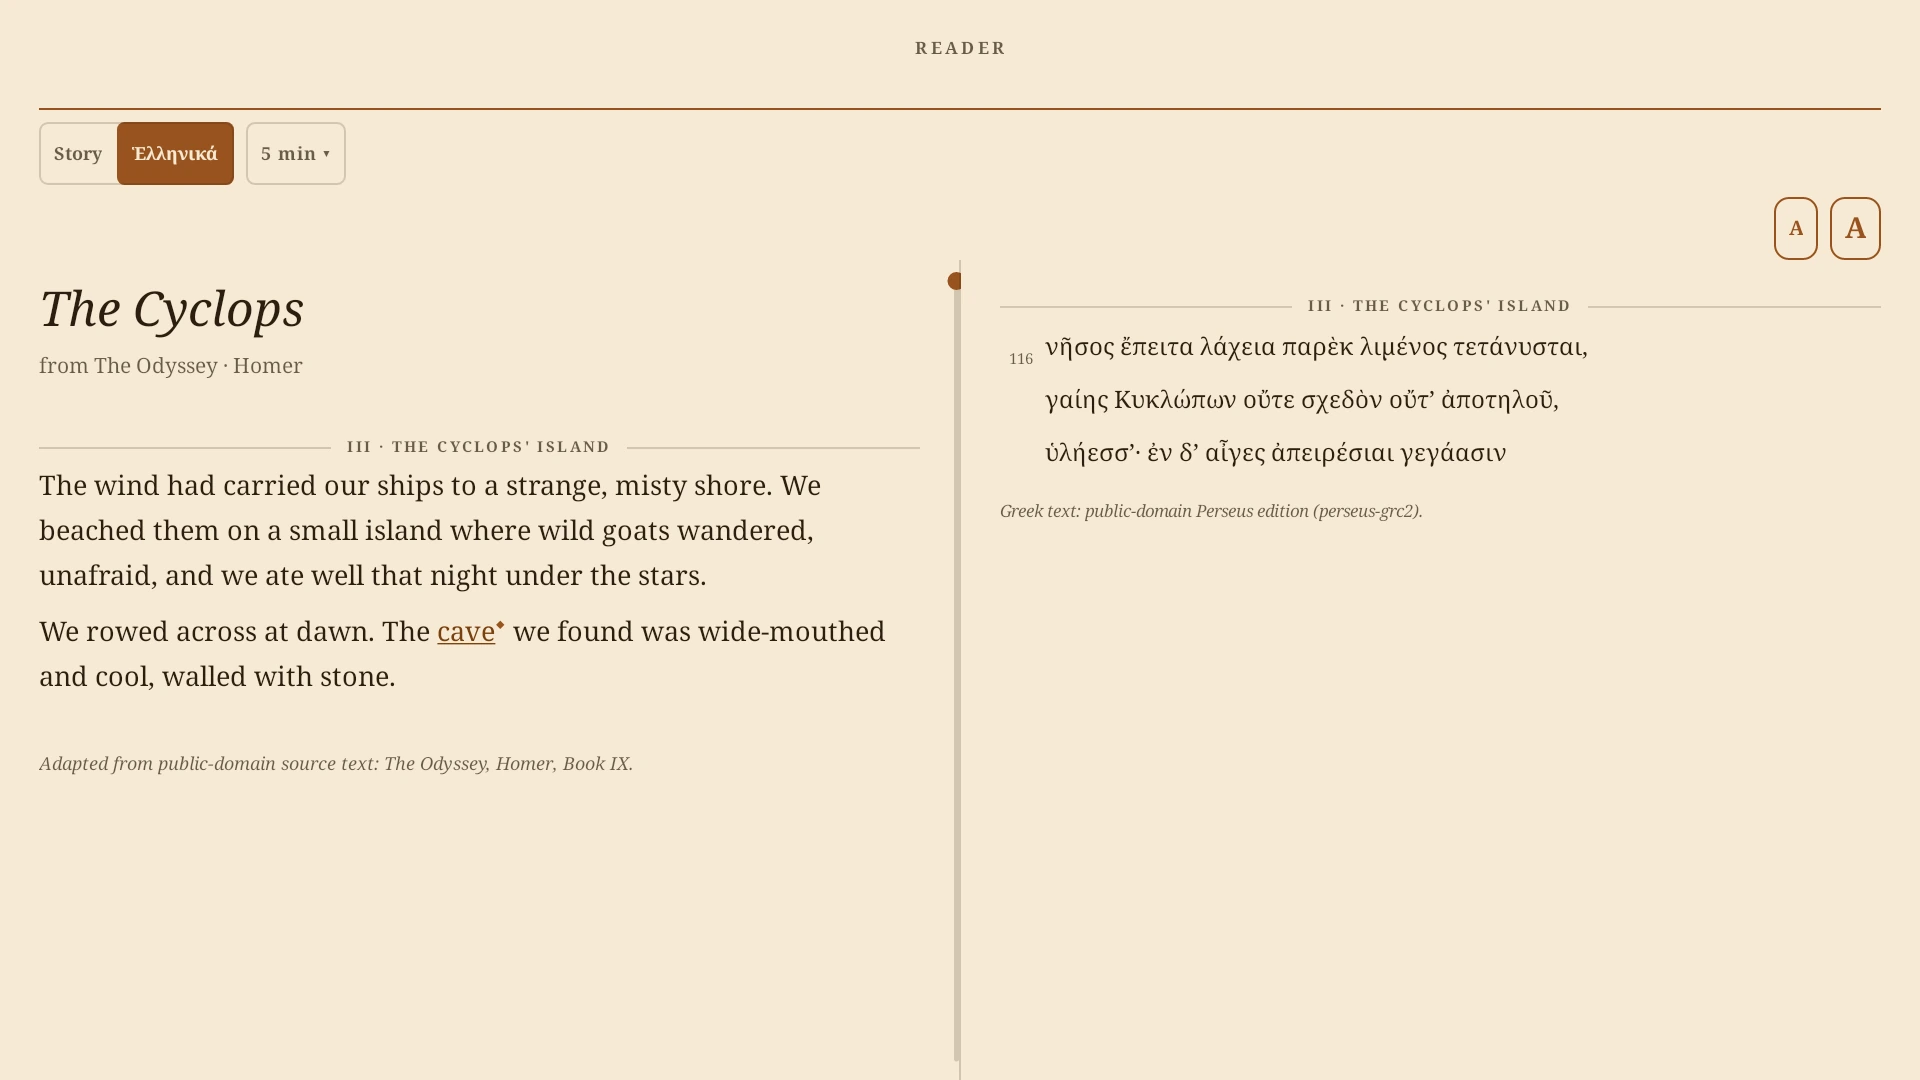
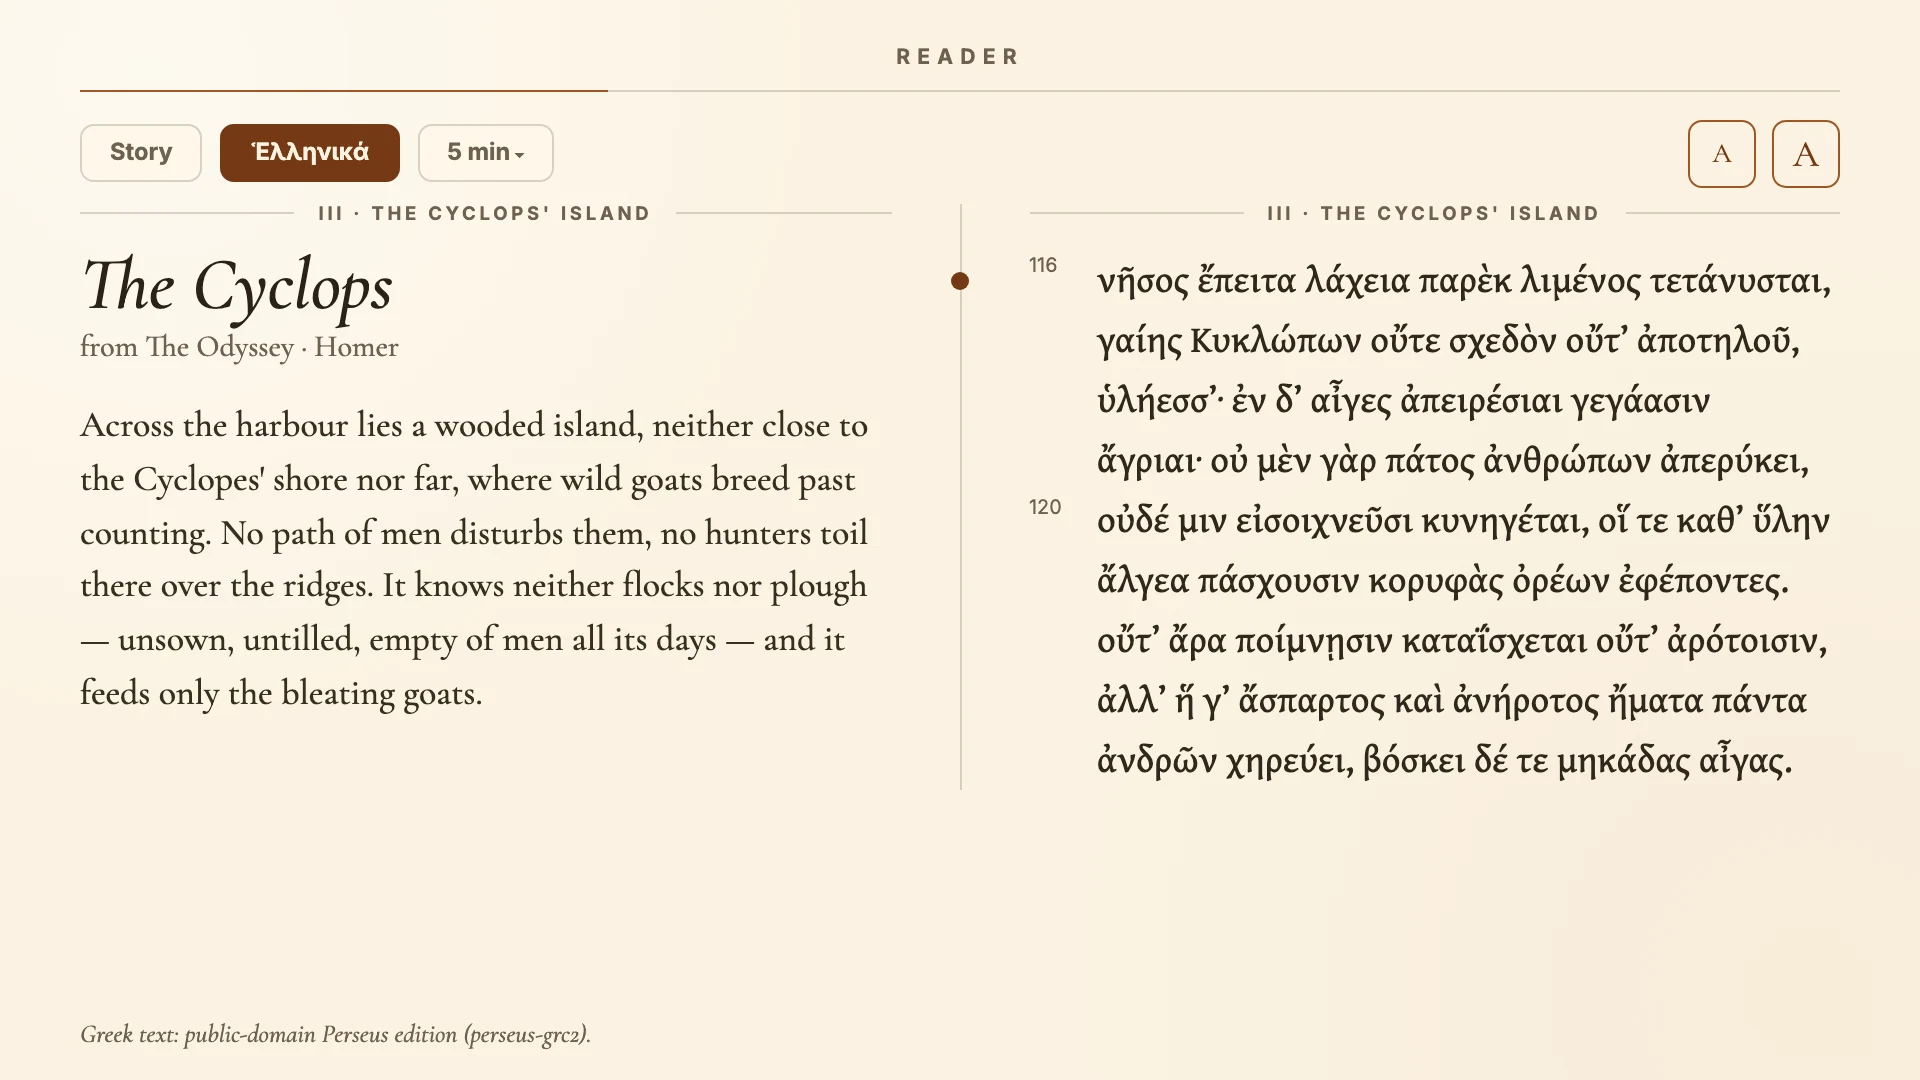
feat(skald): color-art hero (Turner) + fuller Greek side-by-side
- Hero now leads with J.M.W. Turner's 1829 'Ulysses deriding
  Polyphemus' (public domain, color) in the reader, replacing the
  black-and-white Flaxman engraving.
- Greek split view now shows a full 9-line Book 9 passage (was only
  ~3 lines). Both rebuilt as on-brand reader compositions.

diff --git a/skald/index.html b/skald/index.html
@@ -65,7 +65,7 @@
         <div class="hero-visual reveal reveal-delay" id="art">
           <div class="odyssey-glyph" aria-hidden="true">Ὀδύσσεια</div>
           <figure class="shot-card shot-card-phone">
-            <img src="./assets/reader-art.webp" width="1080" height="1920" alt="Skald reader with the look-closer view open on John Flaxman’s 1810 engraving of Odysseus and Polyphemus." fetchpriority="high">
+            <img src="./assets/reader-art.webp" width="1080" height="1920" alt="Skald reader open to “The Cyclops,” with J. M. W. Turner’s 1829 painting “Ulysses deriding Polyphemus” shown where the scene enters the text." fetchpriority="high">
             <figcaption>Art opens at the moment it enters the story.</figcaption>
           </figure>
           <div class="stat-card stat-card-art">